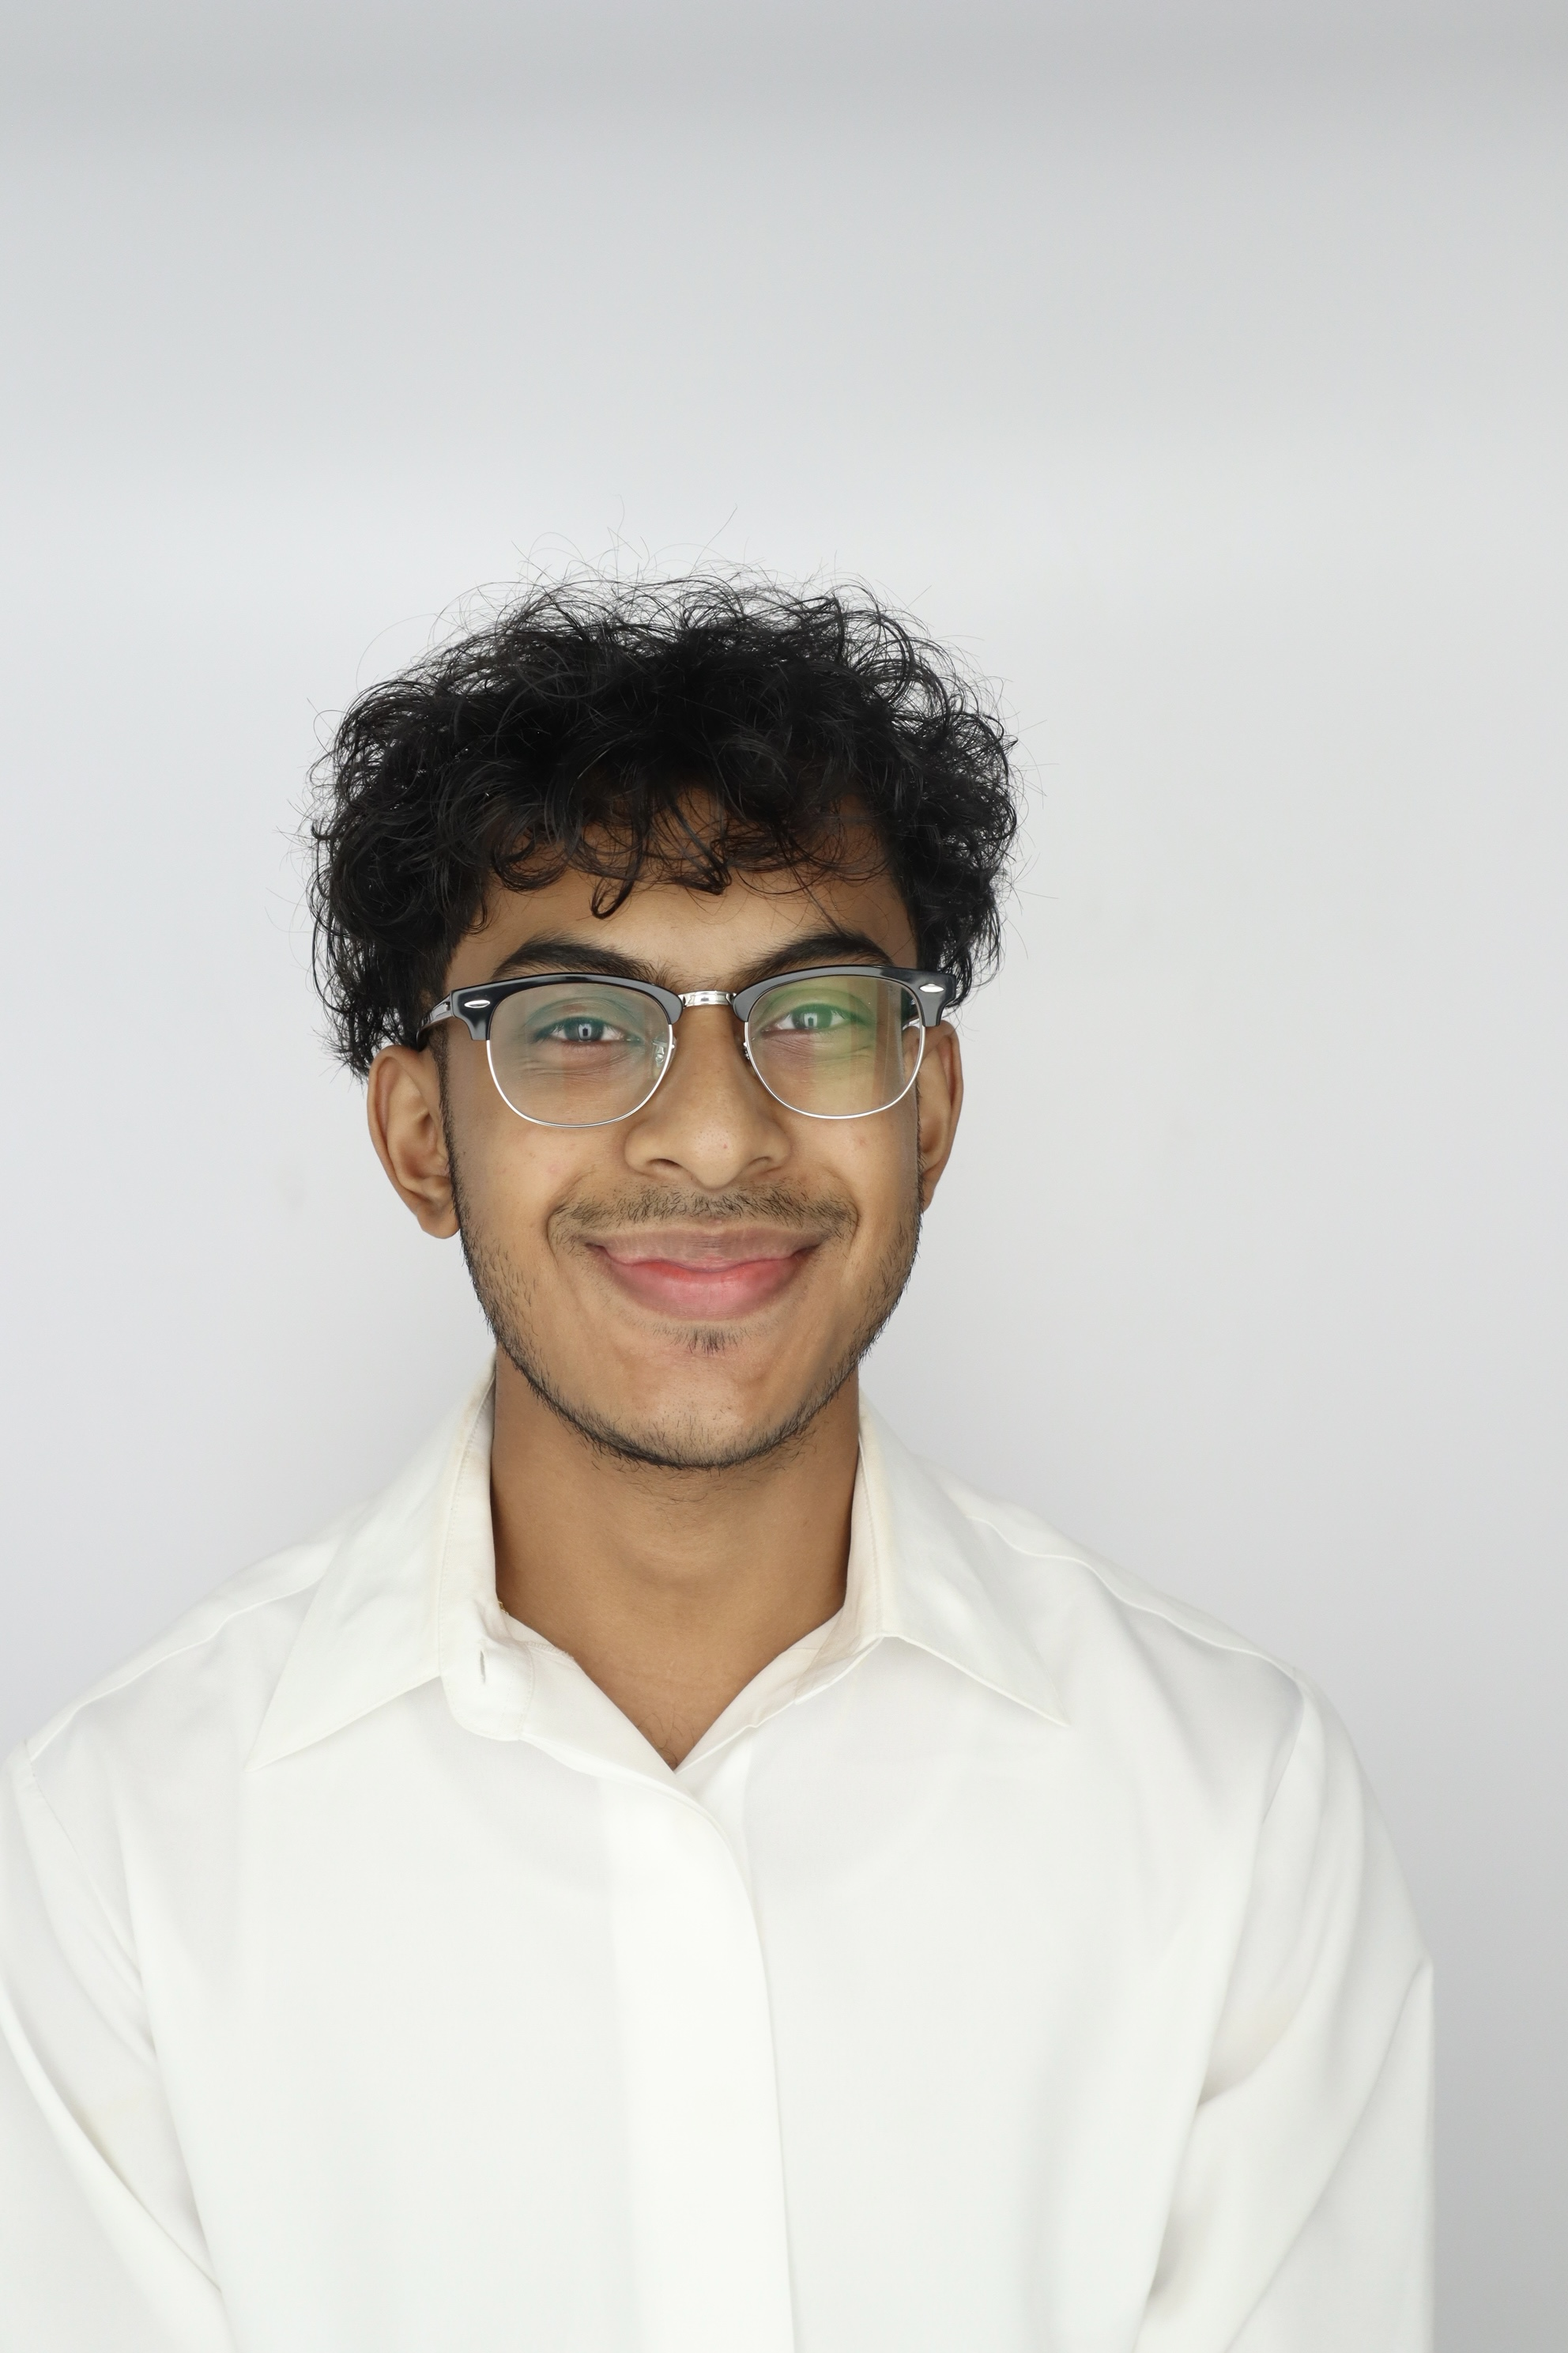
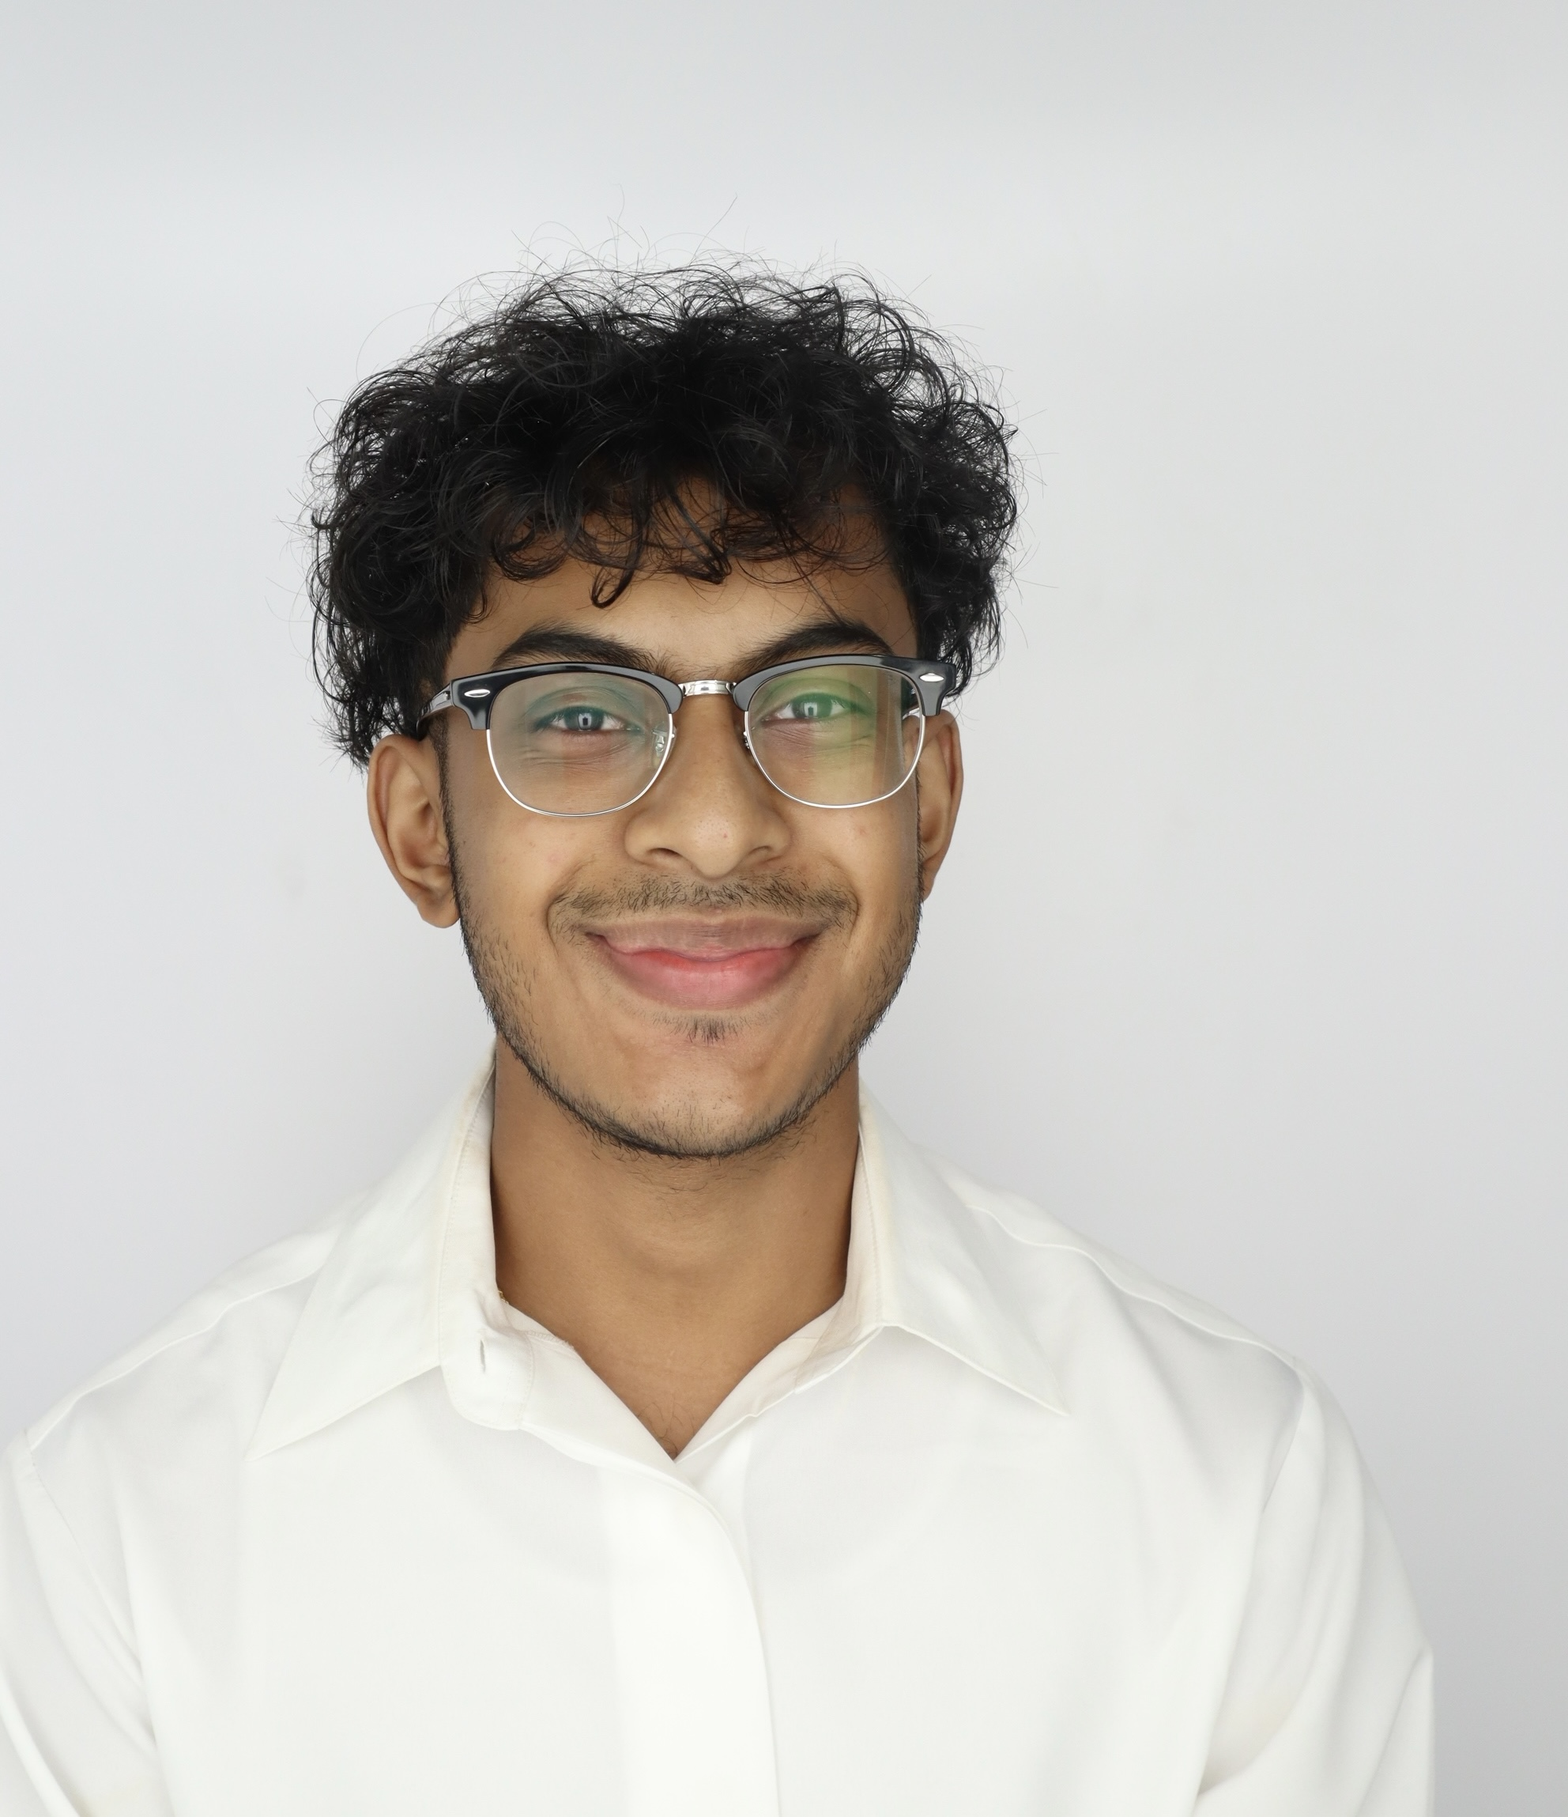
Almost entirely done
Fixed Rit/Nishant's photos so they're centered. Removed old JS code that isn't used anymore. Revised license agreement, and expanded team member bios.

Only needs:
 - Demo Video
- Working github hyperlink in footer
 - Project description touch up

diff --git a/index.html b/index.html
@@ -39,13 +39,13 @@
                 <img src="./pics/alexj_headshot.jpeg" alt="Alex Jenkins" />
                 <h3>Alex Jenkins</h3>
                 <p>
-                    Hi! I'm Alex Jenkins,
+                    Howdy! I'm Alex Jenkins,
                     a Computer Engineering major at the Georgia Institute of Technology.
                     You can check out <a target=blank href="https://alexj.io/">my website</a> to see my previous
                     projects and experiences. For the AFF project, I served as the full
-                    stack developer and Scrum master. My role involved quickly setting
-                    up the application's framework, allowing the rest of the
-                    team to build out the necessary features. I also worked on resolving 
+                    stack developer, Scrum master, and Product Owner. My job was
+                    to quickly set up the application's framework, allowing the
+                    rest of the team to build out the necessary features as needed. I also worked on resolving
                     merge conflicts, bug fixes, and addressing communication challenges between team members.
                 </p>
             </div>
@@ -54,7 +54,10 @@
                 <h3>Rit Muliashia</h3>
                 <p>
                     Hey! I am a computer science major at the Georgia Institute of Technology.
-                    I am a frontend developer on the AFF project.
+                    I am a frontend developer on the AFF project. My job was to create the
+                    HTML and CSS for the website. My focus was on the user interface and
+                    user experience of the website, I also worked on the search's sorting
+                    algorithim in JavaScript.
                 </p>
             </div>
             <div class="gallery-item">
@@ -62,24 +65,27 @@
                 <h3>Nishant Das</h3>
                 <p>
                     Hi! I'm Nishant Das and I am a second year Computer Science major at Georgia Institue of Technology!
-                    I am a Front-End Developer for Atlanta Food Finder! I am passionate about software development and
-                    hope to continue expanding my skill set!
+                    I am a Front-End Developer for Atlanta Food Finder! My job was to create the HTML and CSS for the website.
+                    I am passionate about software development and hope to continue expanding my skill set!
                 </p>
             </div>
             <div class="gallery-item">
                 <img src="./pics/filippos.JPG" alt="Cat 4" />
                 <h3>Filippos Kozakos</h3>
                 <p>
-                    Hi. My name is Filippos Kozakos and I am a 3rd year international BSc CS student at Georgia Institute of Technology.
-                    I am working as a Backend developer for Atlanta Food Finder.
+                    Hello! My name is Filippos Kozakos and I am a 3rd year international Computer Science major at the Georgia Institute of Technology.
+                    I worked as a Backend developer for the AFF project. My job was to create the logic behind the HTML
+                    site in Django/python, mainly related to user authentication and cybersecurity.
                 </p>
             </div>
             <div class="gallery-item">
                 <img src="./pics/aryanheadshot.jpg" alt="Cat 5" />
                 <h3>Aryan Deshpande</h3>
                 <p>
-                    Hey, I am Aryan Deshpande, a junior at tech pursuing computer science as my major. 
-                    I am currently working in the backend team of the atlanta food finder project
+                    Hey, I am Aryan Deshpande, a junior at tech pursuing computer science as my major.
+                    I am currently working in the backend team of the atlanta food finder project.
+                    My job is to create the logic behind the HTML site in Django/python,
+                    and to make sure that the data users interface with is stored and retrieved correctly.
                 </p>
             </div>
         </div>
